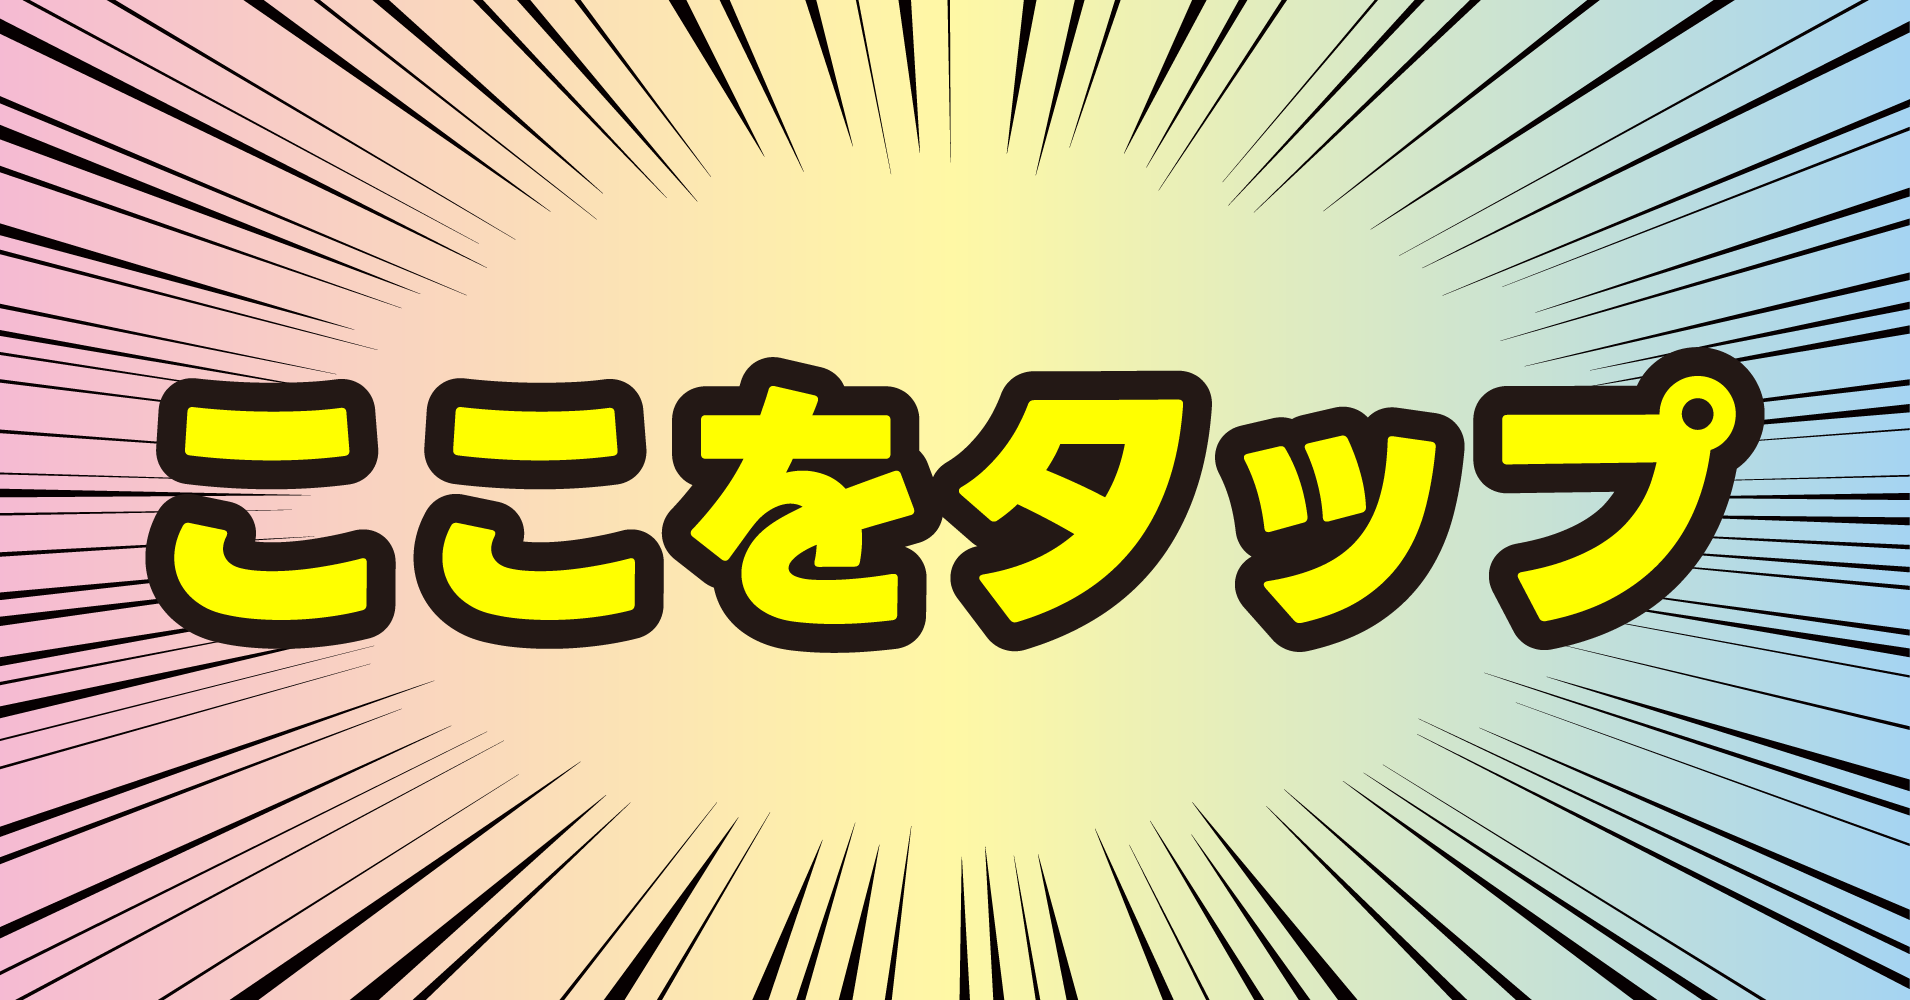
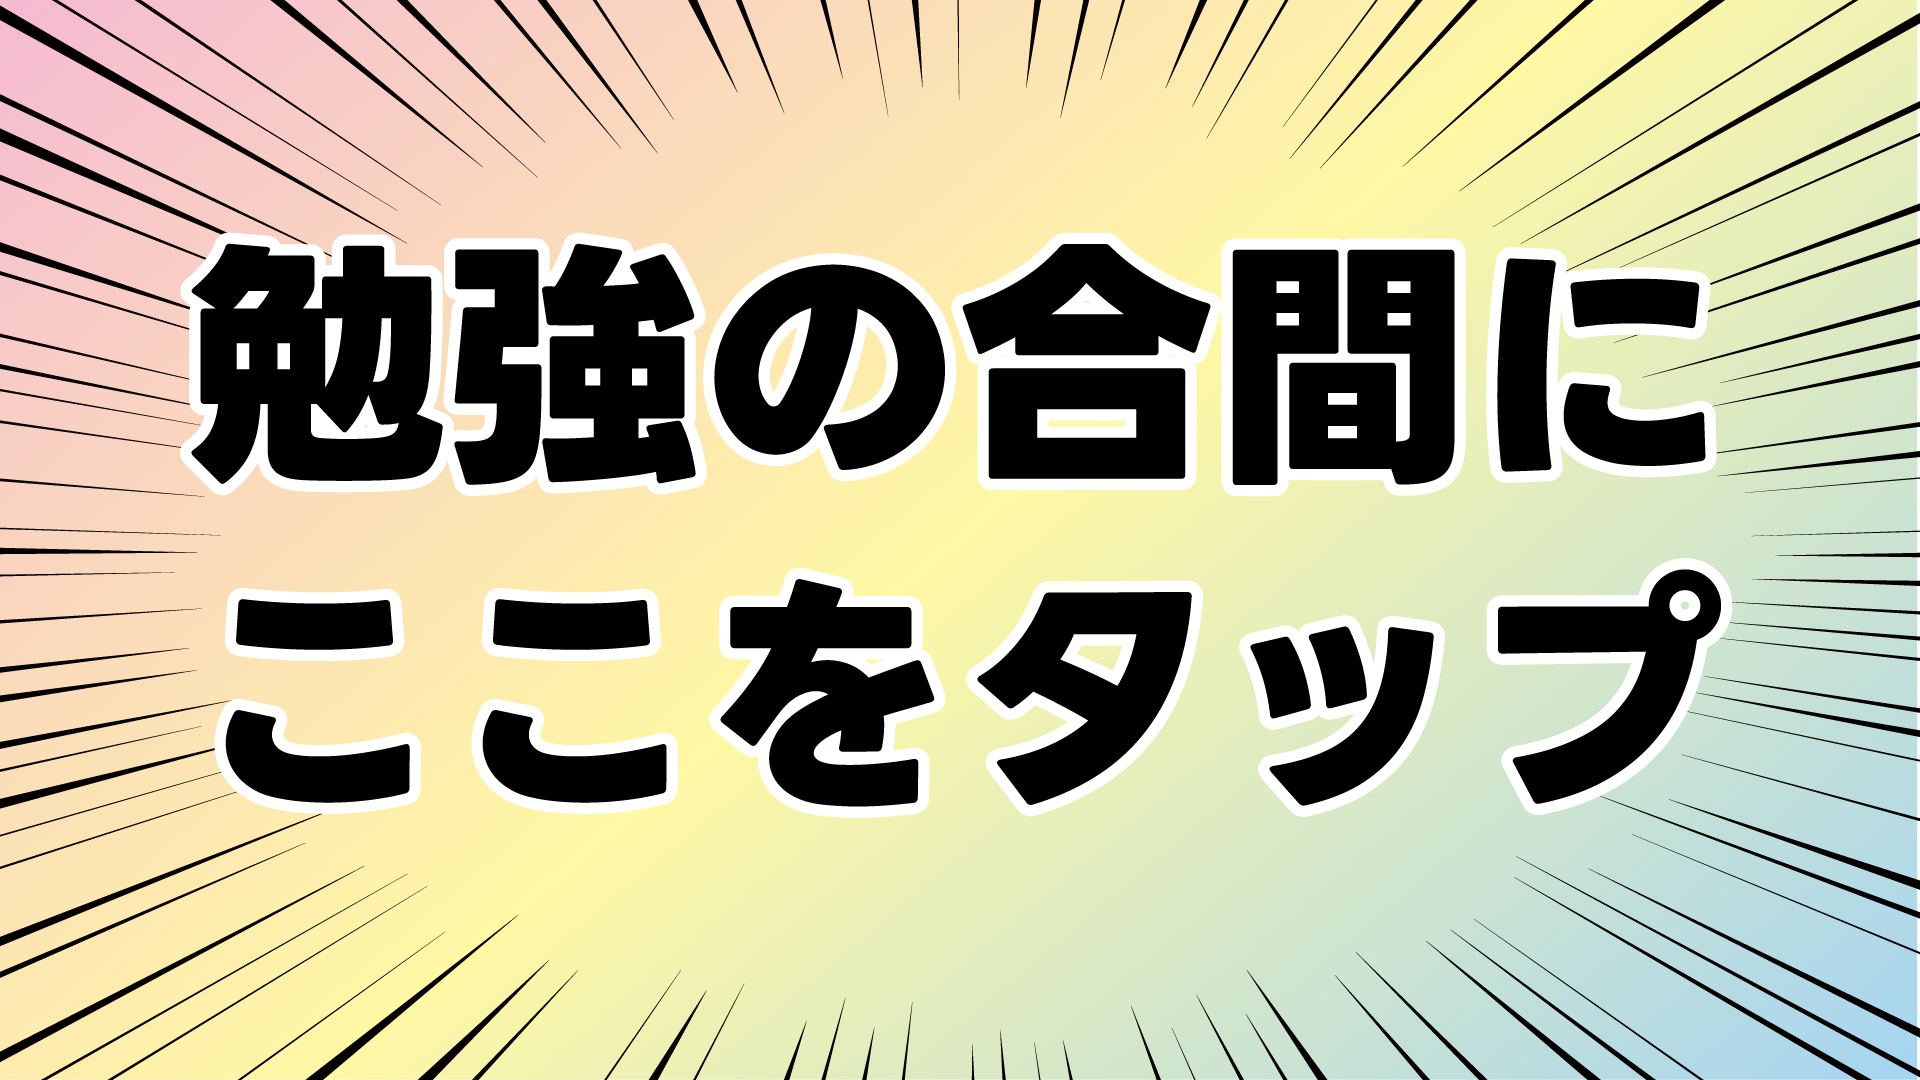
2431

diff --git a/index.js b/index.js
@@ -1,7 +1,7 @@
 window.onload = () => {
   const message = document.querySelector("#message")
   const countdown = document.querySelector("#countdown")
-  const deadline = dayjs('2024-12-02 09:40:00')
+  const deadline = dayjs('2025-03-03 09:40:00')
 
   const timer = () => {
     let diff = deadline.diff();
@@ -16,7 +16,7 @@ window.onload = () => {
       diff -= 1000 * sec;
       countdown.innerText = `${zeroPad(day)}日 ${zeroPad(hour)}時間 ${zeroPad(min)}分 ${zeroPad(sec)}秒`;
     } else {
-      message.innerText = "次は学年末テスト！"
+      message.innerText = "次は学力テスト！"
       countdown.innerText = ""
     }
     setTimeout(timer, 100)

diff --git a/index.html b/index.html
@@ -9,7 +9,7 @@
   <link href="/index.css" rel="stylesheet">
   </script>
   <script src="/index.js"></script>
-  <title>2学期 期末テストまで</title>
+  <title>学年末テストまで</title>
   <meta name="twitter:card" content="summary_large_image" />
   <meta name="twitter:site" content="@PoohSan_Cola" />
   <meta name="twitter:title" content="Click here" />
@@ -20,8 +20,8 @@
 <body>
   <div class="box">
     <p>
-      <span id="message">2学期 期末テストまで</span><br />
-      <span id="countdown"></span>
+      <span id="message">学年末テストまで</span><br />
+      <span id="countdown">　</span>
     </p>
   </div>
 </body>
